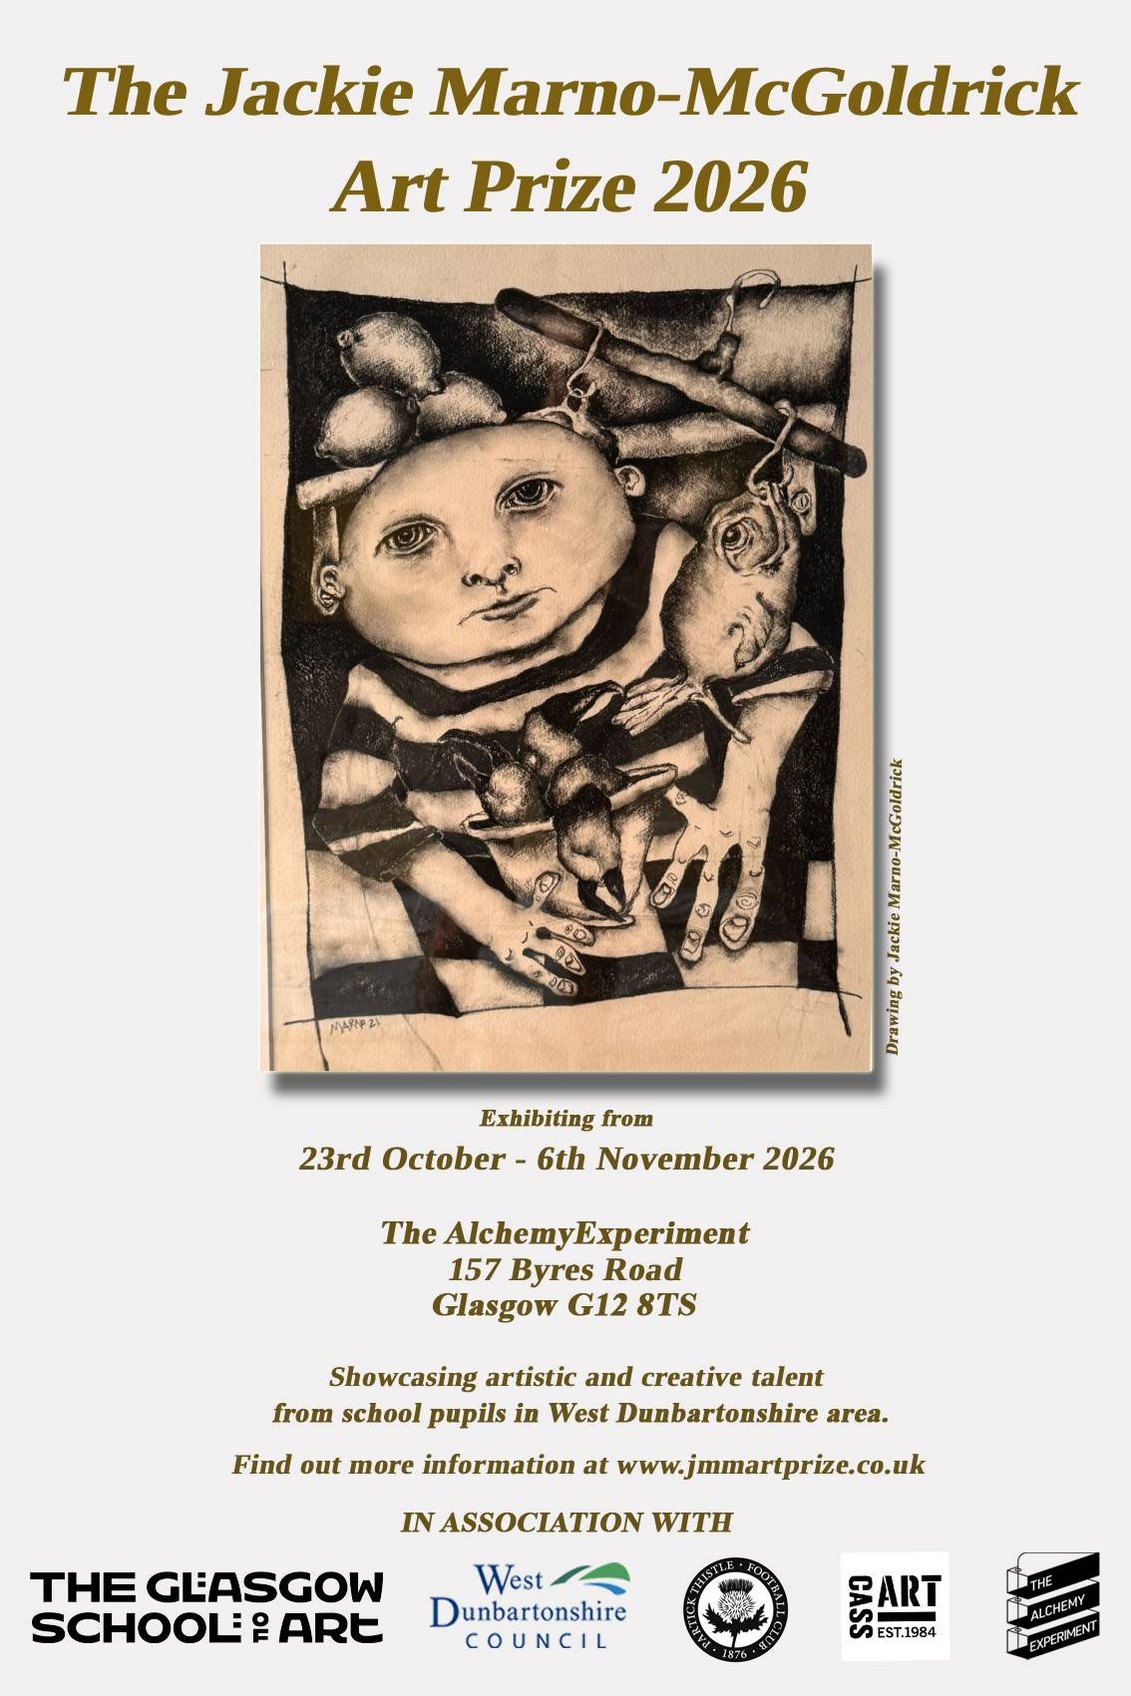
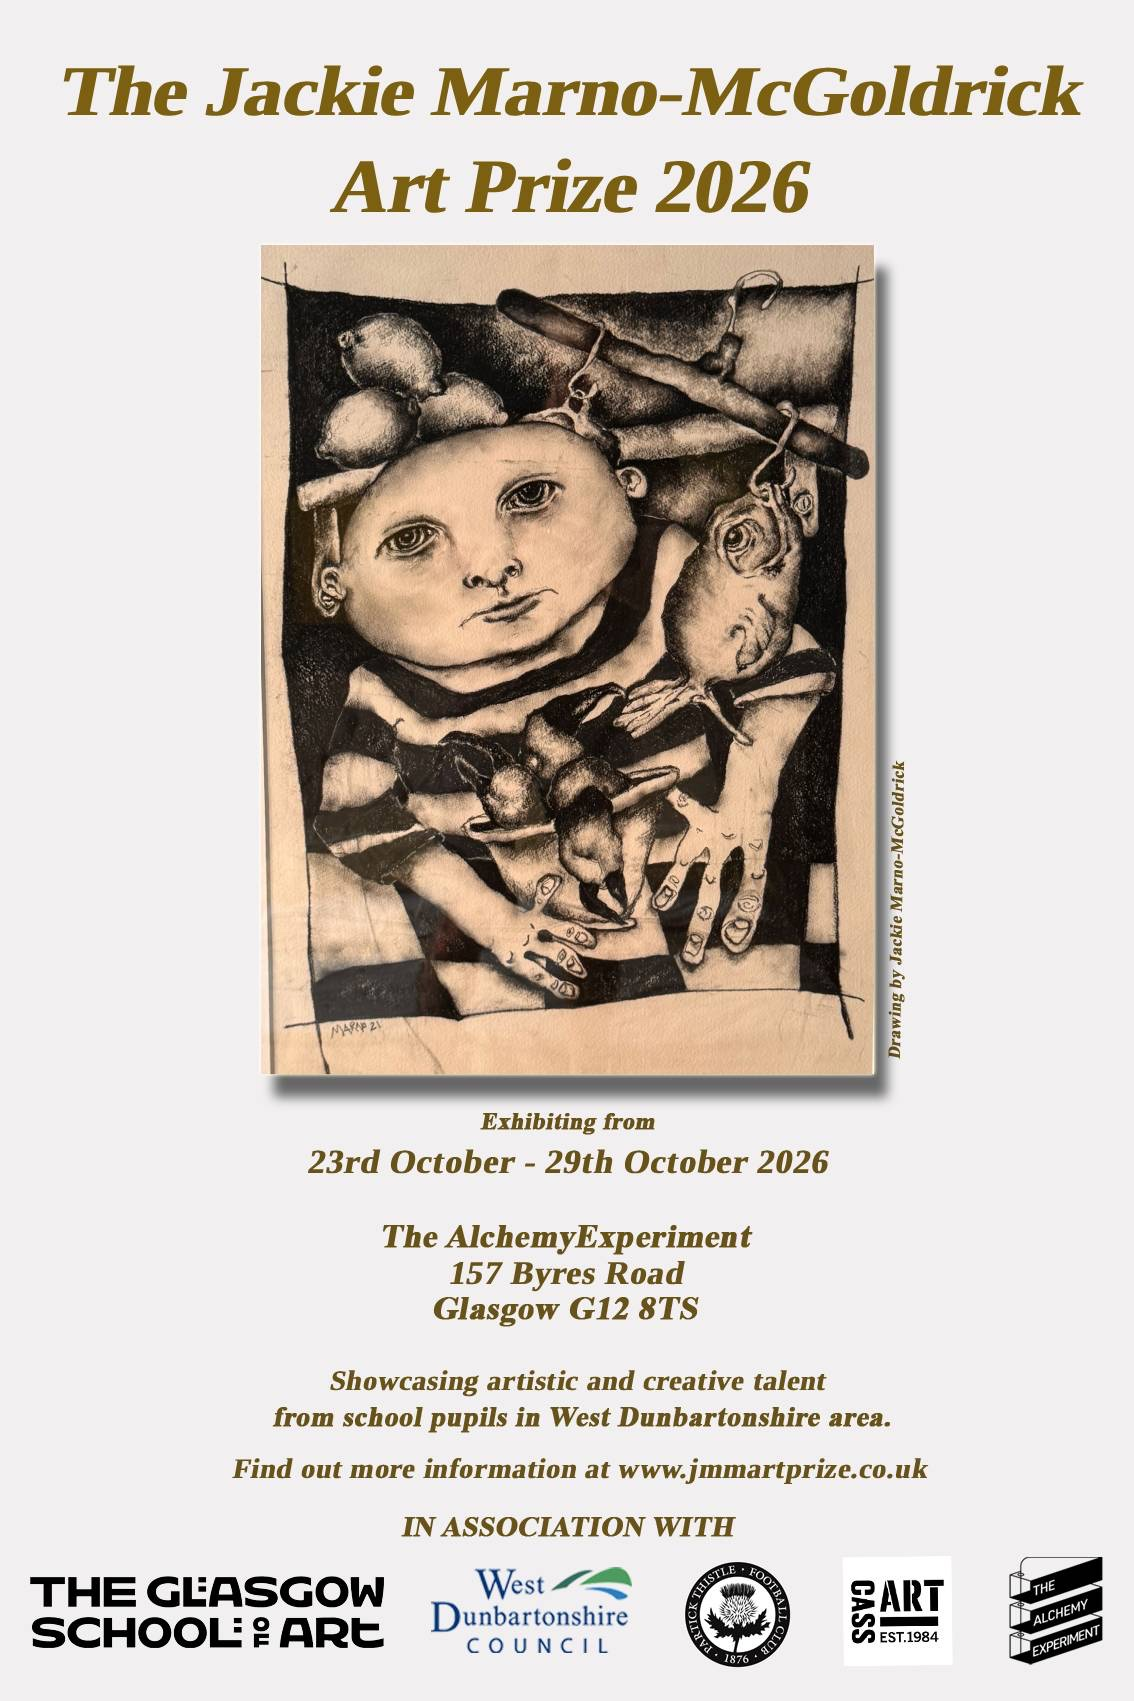
Update 2026 exhibition dates to 23-29 October; add second ticker message; new poster
- Home announcement 'Exhibiting' date: 23rd - 29th October 2026 (was 23 Oct - 6 Nov)

- Poster (poster-2026*.jpg) replaced with V2

- Ticker now alternates two messages: entries open + '2026 JMM Art Prize dates confirmed: 23rd - 29th October'

Changed region(s): [[0.2785, 0.6562, 0.7427, 0.6875]]

diff --git a/index.html b/index.html
@@ -39,7 +39,7 @@
   </div>
 </header>
 <div class="ticker">
-  <a href="art-prize.html" aria-label="Entries to the 2026 JMM Art Prize are now open - how to enter"><span class="ticker-track" aria-hidden="true"><span>Entries to the 2026 JMM Art Prize are now open</span><span aria-hidden="true">Entries to the 2026 JMM Art Prize are now open</span><span aria-hidden="true">Entries to the 2026 JMM Art Prize are now open</span><span aria-hidden="true">Entries to the 2026 JMM Art Prize are now open</span><span aria-hidden="true">Entries to the 2026 JMM Art Prize are now open</span><span aria-hidden="true">Entries to the 2026 JMM Art Prize are now open</span><span aria-hidden="true">Entries to the 2026 JMM Art Prize are now open</span><span aria-hidden="true">Entries to the 2026 JMM Art Prize are now open</span></span></a>
+  <a href="art-prize.html" aria-label="Entries to the 2026 JMM Art Prize are now open - 2026 JMM Art Prize dates confirmed: 23rd - 29th October"><span class="ticker-track" aria-hidden="true"><span>Entries to the 2026 JMM Art Prize are now open</span><span>2026 JMM Art Prize dates confirmed: 23rd - 29th October</span><span>Entries to the 2026 JMM Art Prize are now open</span><span>2026 JMM Art Prize dates confirmed: 23rd - 29th October</span><span>Entries to the 2026 JMM Art Prize are now open</span><span>2026 JMM Art Prize dates confirmed: 23rd - 29th October</span><span>Entries to the 2026 JMM Art Prize are now open</span><span>2026 JMM Art Prize dates confirmed: 23rd - 29th October</span></span></a>
 </div>
 </div>
 <main id="main">
@@ -76,7 +76,7 @@
         <p>The Jackie Marno-McGoldrick Art Prize is going ahead for 2026. We&rsquo;re keeping the competition true to its roots - free to enter, open to every school pupil across West Dunbartonshire, and built around a real exhibition in Glasgow&rsquo;s West End - and continuing the work Jackie&rsquo;s son, Callum Stewart, started in 2024.</p>
         <p>The same idea sits behind it as it did on day one: give young people a wall, an audience, and the message that their work matters.</p>
         <dl class="announce-facts">
-          <div><dt>Exhibiting</dt><dd>23 October &ndash; 6 November 2026</dd></div>
+          <div><dt>Exhibiting</dt><dd>23rd &ndash; 29th October 2026</dd></div>
           <div><dt>Where</dt><dd>The Alchemy Experiment, 157 Byres Road, Glasgow G12 8TS</dd></div>
           <div><dt>Who can enter</dt><dd>School pupils across West Dunbartonshire, in any medium</dd></div>
         </dl>

diff --git a/about.html b/about.html
@@ -39,7 +39,7 @@
   </div>
 </header>
 <div class="ticker">
-  <a href="art-prize.html" aria-label="Entries to the 2026 JMM Art Prize are now open - how to enter"><span class="ticker-track" aria-hidden="true"><span>Entries to the 2026 JMM Art Prize are now open</span><span aria-hidden="true">Entries to the 2026 JMM Art Prize are now open</span><span aria-hidden="true">Entries to the 2026 JMM Art Prize are now open</span><span aria-hidden="true">Entries to the 2026 JMM Art Prize are now open</span><span aria-hidden="true">Entries to the 2026 JMM Art Prize are now open</span><span aria-hidden="true">Entries to the 2026 JMM Art Prize are now open</span><span aria-hidden="true">Entries to the 2026 JMM Art Prize are now open</span><span aria-hidden="true">Entries to the 2026 JMM Art Prize are now open</span></span></a>
+  <a href="art-prize.html" aria-label="Entries to the 2026 JMM Art Prize are now open - 2026 JMM Art Prize dates confirmed: 23rd - 29th October"><span class="ticker-track" aria-hidden="true"><span>Entries to the 2026 JMM Art Prize are now open</span><span>2026 JMM Art Prize dates confirmed: 23rd - 29th October</span><span>Entries to the 2026 JMM Art Prize are now open</span><span>2026 JMM Art Prize dates confirmed: 23rd - 29th October</span><span>Entries to the 2026 JMM Art Prize are now open</span><span>2026 JMM Art Prize dates confirmed: 23rd - 29th October</span><span>Entries to the 2026 JMM Art Prize are now open</span><span>2026 JMM Art Prize dates confirmed: 23rd - 29th October</span></span></a>
 </div>
 </div>
 <main id="main">

diff --git a/art-prize.html b/art-prize.html
@@ -39,7 +39,7 @@
   </div>
 </header>
 <div class="ticker">
-  <a href="art-prize.html" aria-label="Entries to the 2026 JMM Art Prize are now open - how to enter"><span class="ticker-track" aria-hidden="true"><span>Entries to the 2026 JMM Art Prize are now open</span><span aria-hidden="true">Entries to the 2026 JMM Art Prize are now open</span><span aria-hidden="true">Entries to the 2026 JMM Art Prize are now open</span><span aria-hidden="true">Entries to the 2026 JMM Art Prize are now open</span><span aria-hidden="true">Entries to the 2026 JMM Art Prize are now open</span><span aria-hidden="true">Entries to the 2026 JMM Art Prize are now open</span><span aria-hidden="true">Entries to the 2026 JMM Art Prize are now open</span><span aria-hidden="true">Entries to the 2026 JMM Art Prize are now open</span></span></a>
+  <a href="art-prize.html" aria-label="Entries to the 2026 JMM Art Prize are now open - 2026 JMM Art Prize dates confirmed: 23rd - 29th October"><span class="ticker-track" aria-hidden="true"><span>Entries to the 2026 JMM Art Prize are now open</span><span>2026 JMM Art Prize dates confirmed: 23rd - 29th October</span><span>Entries to the 2026 JMM Art Prize are now open</span><span>2026 JMM Art Prize dates confirmed: 23rd - 29th October</span><span>Entries to the 2026 JMM Art Prize are now open</span><span>2026 JMM Art Prize dates confirmed: 23rd - 29th October</span><span>Entries to the 2026 JMM Art Prize are now open</span><span>2026 JMM Art Prize dates confirmed: 23rd - 29th October</span></span></a>
 </div>
 </div>
 <main id="main">

diff --git a/entries-2024-clydebank-high-school.html b/entries-2024-clydebank-high-school.html
@@ -39,7 +39,7 @@
   </div>
 </header>
 <div class="ticker">
-  <a href="art-prize.html" aria-label="Entries to the 2026 JMM Art Prize are now open - how to enter"><span class="ticker-track" aria-hidden="true"><span>Entries to the 2026 JMM Art Prize are now open</span><span aria-hidden="true">Entries to the 2026 JMM Art Prize are now open</span><span aria-hidden="true">Entries to the 2026 JMM Art Prize are now open</span><span aria-hidden="true">Entries to the 2026 JMM Art Prize are now open</span><span aria-hidden="true">Entries to the 2026 JMM Art Prize are now open</span><span aria-hidden="true">Entries to the 2026 JMM Art Prize are now open</span><span aria-hidden="true">Entries to the 2026 JMM Art Prize are now open</span><span aria-hidden="true">Entries to the 2026 JMM Art Prize are now open</span></span></a>
+  <a href="art-prize.html" aria-label="Entries to the 2026 JMM Art Prize are now open - 2026 JMM Art Prize dates confirmed: 23rd - 29th October"><span class="ticker-track" aria-hidden="true"><span>Entries to the 2026 JMM Art Prize are now open</span><span>2026 JMM Art Prize dates confirmed: 23rd - 29th October</span><span>Entries to the 2026 JMM Art Prize are now open</span><span>2026 JMM Art Prize dates confirmed: 23rd - 29th October</span><span>Entries to the 2026 JMM Art Prize are now open</span><span>2026 JMM Art Prize dates confirmed: 23rd - 29th October</span><span>Entries to the 2026 JMM Art Prize are now open</span><span>2026 JMM Art Prize dates confirmed: 23rd - 29th October</span></span></a>
 </div>
 </div>
 <main id="main">

diff --git a/entries-2024-dumbarton-academy.html b/entries-2024-dumbarton-academy.html
@@ -39,7 +39,7 @@
   </div>
 </header>
 <div class="ticker">
-  <a href="art-prize.html" aria-label="Entries to the 2026 JMM Art Prize are now open - how to enter"><span class="ticker-track" aria-hidden="true"><span>Entries to the 2026 JMM Art Prize are now open</span><span aria-hidden="true">Entries to the 2026 JMM Art Prize are now open</span><span aria-hidden="true">Entries to the 2026 JMM Art Prize are now open</span><span aria-hidden="true">Entries to the 2026 JMM Art Prize are now open</span><span aria-hidden="true">Entries to the 2026 JMM Art Prize are now open</span><span aria-hidden="true">Entries to the 2026 JMM Art Prize are now open</span><span aria-hidden="true">Entries to the 2026 JMM Art Prize are now open</span><span aria-hidden="true">Entries to the 2026 JMM Art Prize are now open</span></span></a>
+  <a href="art-prize.html" aria-label="Entries to the 2026 JMM Art Prize are now open - 2026 JMM Art Prize dates confirmed: 23rd - 29th October"><span class="ticker-track" aria-hidden="true"><span>Entries to the 2026 JMM Art Prize are now open</span><span>2026 JMM Art Prize dates confirmed: 23rd - 29th October</span><span>Entries to the 2026 JMM Art Prize are now open</span><span>2026 JMM Art Prize dates confirmed: 23rd - 29th October</span><span>Entries to the 2026 JMM Art Prize are now open</span><span>2026 JMM Art Prize dates confirmed: 23rd - 29th October</span><span>Entries to the 2026 JMM Art Prize are now open</span><span>2026 JMM Art Prize dates confirmed: 23rd - 29th October</span></span></a>
 </div>
 </div>
 <main id="main">

diff --git a/entries-2024-gavinburn-primary.html b/entries-2024-gavinburn-primary.html
@@ -39,7 +39,7 @@
   </div>
 </header>
 <div class="ticker">
-  <a href="art-prize.html" aria-label="Entries to the 2026 JMM Art Prize are now open - how to enter"><span class="ticker-track" aria-hidden="true"><span>Entries to the 2026 JMM Art Prize are now open</span><span aria-hidden="true">Entries to the 2026 JMM Art Prize are now open</span><span aria-hidden="true">Entries to the 2026 JMM Art Prize are now open</span><span aria-hidden="true">Entries to the 2026 JMM Art Prize are now open</span><span aria-hidden="true">Entries to the 2026 JMM Art Prize are now open</span><span aria-hidden="true">Entries to the 2026 JMM Art Prize are now open</span><span aria-hidden="true">Entries to the 2026 JMM Art Prize are now open</span><span aria-hidden="true">Entries to the 2026 JMM Art Prize are now open</span></span></a>
+  <a href="art-prize.html" aria-label="Entries to the 2026 JMM Art Prize are now open - 2026 JMM Art Prize dates confirmed: 23rd - 29th October"><span class="ticker-track" aria-hidden="true"><span>Entries to the 2026 JMM Art Prize are now open</span><span>2026 JMM Art Prize dates confirmed: 23rd - 29th October</span><span>Entries to the 2026 JMM Art Prize are now open</span><span>2026 JMM Art Prize dates confirmed: 23rd - 29th October</span><span>Entries to the 2026 JMM Art Prize are now open</span><span>2026 JMM Art Prize dates confirmed: 23rd - 29th October</span><span>Entries to the 2026 JMM Art Prize are now open</span><span>2026 JMM Art Prize dates confirmed: 23rd - 29th October</span></span></a>
 </div>
 </div>
 <main id="main">

diff --git a/entries-2024-our-lady-and-st-patricks.html b/entries-2024-our-lady-and-st-patricks.html
@@ -39,7 +39,7 @@
   </div>
 </header>
 <div class="ticker">
-  <a href="art-prize.html" aria-label="Entries to the 2026 JMM Art Prize are now open - how to enter"><span class="ticker-track" aria-hidden="true"><span>Entries to the 2026 JMM Art Prize are now open</span><span aria-hidden="true">Entries to the 2026 JMM Art Prize are now open</span><span aria-hidden="true">Entries to the 2026 JMM Art Prize are now open</span><span aria-hidden="true">Entries to the 2026 JMM Art Prize are now open</span><span aria-hidden="true">Entries to the 2026 JMM Art Prize are now open</span><span aria-hidden="true">Entries to the 2026 JMM Art Prize are now open</span><span aria-hidden="true">Entries to the 2026 JMM Art Prize are now open</span><span aria-hidden="true">Entries to the 2026 JMM Art Prize are now open</span></span></a>
+  <a href="art-prize.html" aria-label="Entries to the 2026 JMM Art Prize are now open - 2026 JMM Art Prize dates confirmed: 23rd - 29th October"><span class="ticker-track" aria-hidden="true"><span>Entries to the 2026 JMM Art Prize are now open</span><span>2026 JMM Art Prize dates confirmed: 23rd - 29th October</span><span>Entries to the 2026 JMM Art Prize are now open</span><span>2026 JMM Art Prize dates confirmed: 23rd - 29th October</span><span>Entries to the 2026 JMM Art Prize are now open</span><span>2026 JMM Art Prize dates confirmed: 23rd - 29th October</span><span>Entries to the 2026 JMM Art Prize are now open</span><span>2026 JMM Art Prize dates confirmed: 23rd - 29th October</span></span></a>
 </div>
 </div>
 <main id="main">

diff --git a/entries-2024-st-peter-the-apostle.html b/entries-2024-st-peter-the-apostle.html
@@ -39,7 +39,7 @@
   </div>
 </header>
 <div class="ticker">
-  <a href="art-prize.html" aria-label="Entries to the 2026 JMM Art Prize are now open - how to enter"><span class="ticker-track" aria-hidden="true"><span>Entries to the 2026 JMM Art Prize are now open</span><span aria-hidden="true">Entries to the 2026 JMM Art Prize are now open</span><span aria-hidden="true">Entries to the 2026 JMM Art Prize are now open</span><span aria-hidden="true">Entries to the 2026 JMM Art Prize are now open</span><span aria-hidden="true">Entries to the 2026 JMM Art Prize are now open</span><span aria-hidden="true">Entries to the 2026 JMM Art Prize are now open</span><span aria-hidden="true">Entries to the 2026 JMM Art Prize are now open</span><span aria-hidden="true">Entries to the 2026 JMM Art Prize are now open</span></span></a>
+  <a href="art-prize.html" aria-label="Entries to the 2026 JMM Art Prize are now open - 2026 JMM Art Prize dates confirmed: 23rd - 29th October"><span class="ticker-track" aria-hidden="true"><span>Entries to the 2026 JMM Art Prize are now open</span><span>2026 JMM Art Prize dates confirmed: 23rd - 29th October</span><span>Entries to the 2026 JMM Art Prize are now open</span><span>2026 JMM Art Prize dates confirmed: 23rd - 29th October</span><span>Entries to the 2026 JMM Art Prize are now open</span><span>2026 JMM Art Prize dates confirmed: 23rd - 29th October</span><span>Entries to the 2026 JMM Art Prize are now open</span><span>2026 JMM Art Prize dates confirmed: 23rd - 29th October</span></span></a>
 </div>
 </div>
 <main id="main">

diff --git a/entries-2024-vale-of-leven-academy.html b/entries-2024-vale-of-leven-academy.html
@@ -39,7 +39,7 @@
   </div>
 </header>
 <div class="ticker">
-  <a href="art-prize.html" aria-label="Entries to the 2026 JMM Art Prize are now open - how to enter"><span class="ticker-track" aria-hidden="true"><span>Entries to the 2026 JMM Art Prize are now open</span><span aria-hidden="true">Entries to the 2026 JMM Art Prize are now open</span><span aria-hidden="true">Entries to the 2026 JMM Art Prize are now open</span><span aria-hidden="true">Entries to the 2026 JMM Art Prize are now open</span><span aria-hidden="true">Entries to the 2026 JMM Art Prize are now open</span><span aria-hidden="true">Entries to the 2026 JMM Art Prize are now open</span><span aria-hidden="true">Entries to the 2026 JMM Art Prize are now open</span><span aria-hidden="true">Entries to the 2026 JMM Art Prize are now open</span></span></a>
+  <a href="art-prize.html" aria-label="Entries to the 2026 JMM Art Prize are now open - 2026 JMM Art Prize dates confirmed: 23rd - 29th October"><span class="ticker-track" aria-hidden="true"><span>Entries to the 2026 JMM Art Prize are now open</span><span>2026 JMM Art Prize dates confirmed: 23rd - 29th October</span><span>Entries to the 2026 JMM Art Prize are now open</span><span>2026 JMM Art Prize dates confirmed: 23rd - 29th October</span><span>Entries to the 2026 JMM Art Prize are now open</span><span>2026 JMM Art Prize dates confirmed: 23rd - 29th October</span><span>Entries to the 2026 JMM Art Prize are now open</span><span>2026 JMM Art Prize dates confirmed: 23rd - 29th October</span></span></a>
 </div>
 </div>
 <main id="main">

diff --git a/entries-2024.html b/entries-2024.html
@@ -39,7 +39,7 @@
   </div>
 </header>
 <div class="ticker">
-  <a href="art-prize.html" aria-label="Entries to the 2026 JMM Art Prize are now open - how to enter"><span class="ticker-track" aria-hidden="true"><span>Entries to the 2026 JMM Art Prize are now open</span><span aria-hidden="true">Entries to the 2026 JMM Art Prize are now open</span><span aria-hidden="true">Entries to the 2026 JMM Art Prize are now open</span><span aria-hidden="true">Entries to the 2026 JMM Art Prize are now open</span><span aria-hidden="true">Entries to the 2026 JMM Art Prize are now open</span><span aria-hidden="true">Entries to the 2026 JMM Art Prize are now open</span><span aria-hidden="true">Entries to the 2026 JMM Art Prize are now open</span><span aria-hidden="true">Entries to the 2026 JMM Art Prize are now open</span></span></a>
+  <a href="art-prize.html" aria-label="Entries to the 2026 JMM Art Prize are now open - 2026 JMM Art Prize dates confirmed: 23rd - 29th October"><span class="ticker-track" aria-hidden="true"><span>Entries to the 2026 JMM Art Prize are now open</span><span>2026 JMM Art Prize dates confirmed: 23rd - 29th October</span><span>Entries to the 2026 JMM Art Prize are now open</span><span>2026 JMM Art Prize dates confirmed: 23rd - 29th October</span><span>Entries to the 2026 JMM Art Prize are now open</span><span>2026 JMM Art Prize dates confirmed: 23rd - 29th October</span><span>Entries to the 2026 JMM Art Prize are now open</span><span>2026 JMM Art Prize dates confirmed: 23rd - 29th October</span></span></a>
 </div>
 </div>
 <main id="main">

diff --git a/entries-2025-clydebank-high-school.html b/entries-2025-clydebank-high-school.html
@@ -39,7 +39,7 @@
   </div>
 </header>
 <div class="ticker">
-  <a href="art-prize.html" aria-label="Entries to the 2026 JMM Art Prize are now open - how to enter"><span class="ticker-track" aria-hidden="true"><span>Entries to the 2026 JMM Art Prize are now open</span><span aria-hidden="true">Entries to the 2026 JMM Art Prize are now open</span><span aria-hidden="true">Entries to the 2026 JMM Art Prize are now open</span><span aria-hidden="true">Entries to the 2026 JMM Art Prize are now open</span><span aria-hidden="true">Entries to the 2026 JMM Art Prize are now open</span><span aria-hidden="true">Entries to the 2026 JMM Art Prize are now open</span><span aria-hidden="true">Entries to the 2026 JMM Art Prize are now open</span><span aria-hidden="true">Entries to the 2026 JMM Art Prize are now open</span></span></a>
+  <a href="art-prize.html" aria-label="Entries to the 2026 JMM Art Prize are now open - 2026 JMM Art Prize dates confirmed: 23rd - 29th October"><span class="ticker-track" aria-hidden="true"><span>Entries to the 2026 JMM Art Prize are now open</span><span>2026 JMM Art Prize dates confirmed: 23rd - 29th October</span><span>Entries to the 2026 JMM Art Prize are now open</span><span>2026 JMM Art Prize dates confirmed: 23rd - 29th October</span><span>Entries to the 2026 JMM Art Prize are now open</span><span>2026 JMM Art Prize dates confirmed: 23rd - 29th October</span><span>Entries to the 2026 JMM Art Prize are now open</span><span>2026 JMM Art Prize dates confirmed: 23rd - 29th October</span></span></a>
 </div>
 </div>
 <main id="main">

diff --git a/entries-2025-dumbarton-academy.html b/entries-2025-dumbarton-academy.html
@@ -39,7 +39,7 @@
   </div>
 </header>
 <div class="ticker">
-  <a href="art-prize.html" aria-label="Entries to the 2026 JMM Art Prize are now open - how to enter"><span class="ticker-track" aria-hidden="true"><span>Entries to the 2026 JMM Art Prize are now open</span><span aria-hidden="true">Entries to the 2026 JMM Art Prize are now open</span><span aria-hidden="true">Entries to the 2026 JMM Art Prize are now open</span><span aria-hidden="true">Entries to the 2026 JMM Art Prize are now open</span><span aria-hidden="true">Entries to the 2026 JMM Art Prize are now open</span><span aria-hidden="true">Entries to the 2026 JMM Art Prize are now open</span><span aria-hidden="true">Entries to the 2026 JMM Art Prize are now open</span><span aria-hidden="true">Entries to the 2026 JMM Art Prize are now open</span></span></a>
+  <a href="art-prize.html" aria-label="Entries to the 2026 JMM Art Prize are now open - 2026 JMM Art Prize dates confirmed: 23rd - 29th October"><span class="ticker-track" aria-hidden="true"><span>Entries to the 2026 JMM Art Prize are now open</span><span>2026 JMM Art Prize dates confirmed: 23rd - 29th October</span><span>Entries to the 2026 JMM Art Prize are now open</span><span>2026 JMM Art Prize dates confirmed: 23rd - 29th October</span><span>Entries to the 2026 JMM Art Prize are now open</span><span>2026 JMM Art Prize dates confirmed: 23rd - 29th October</span><span>Entries to the 2026 JMM Art Prize are now open</span><span>2026 JMM Art Prize dates confirmed: 23rd - 29th October</span></span></a>
 </div>
 </div>
 <main id="main">
